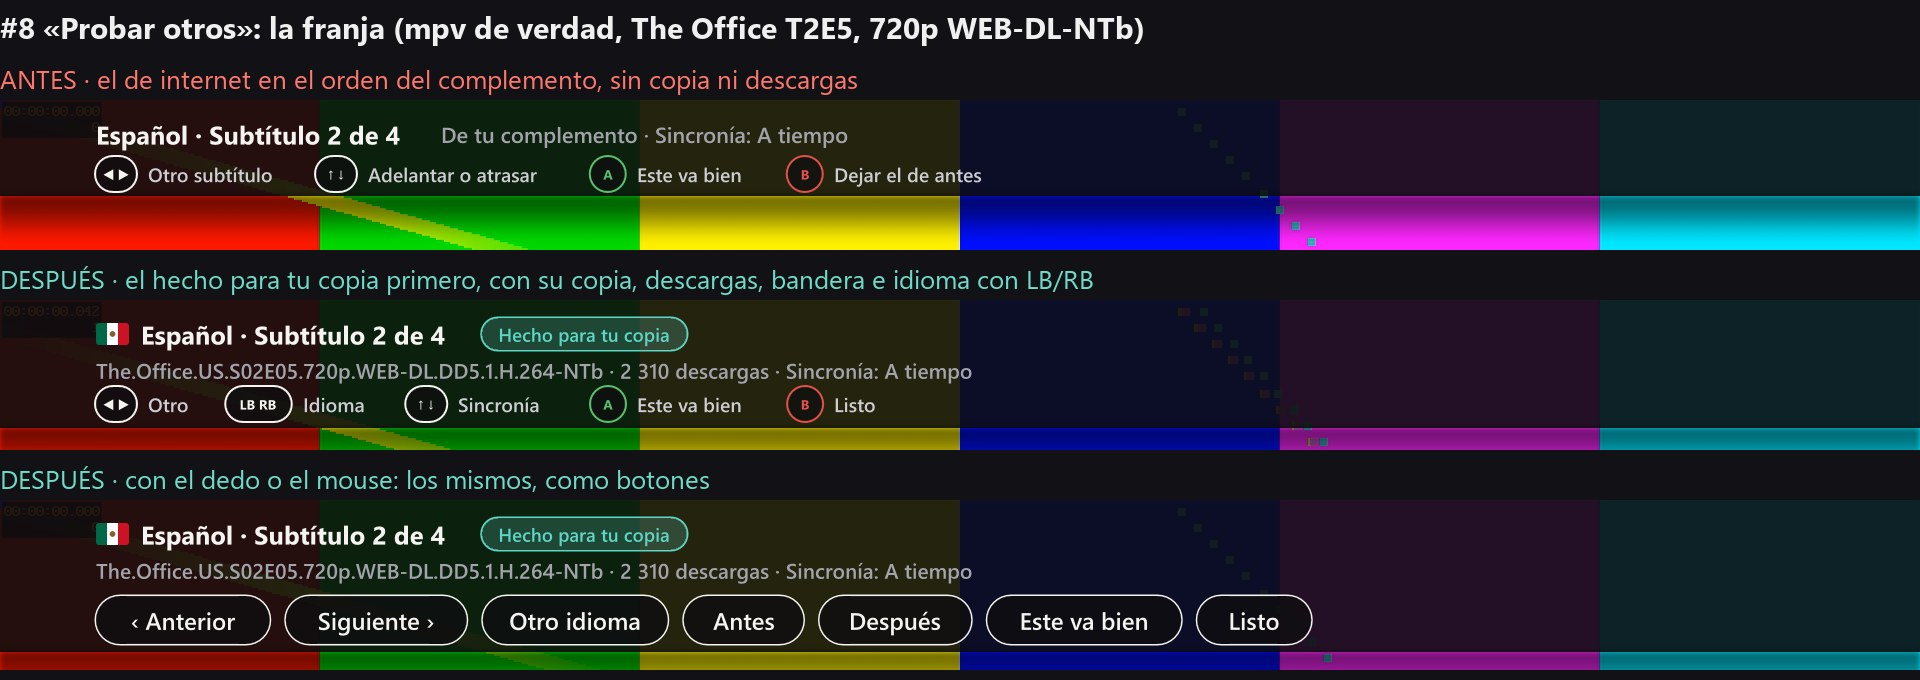
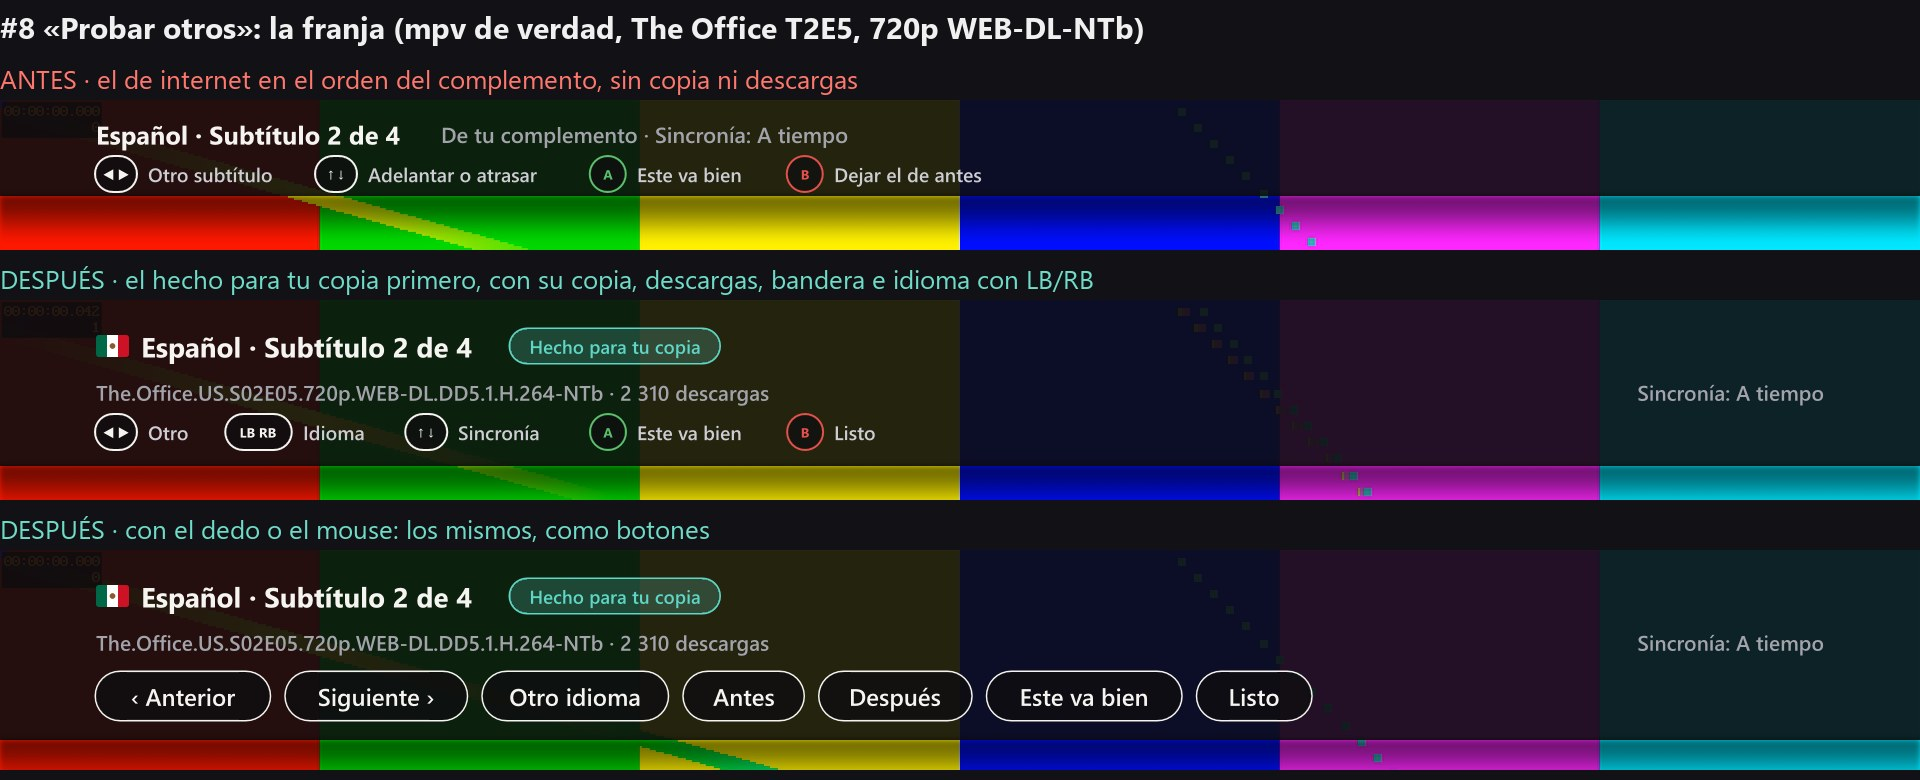
Probar subtítulos: la franja ya no se ve encimada
Tres renglones con aire (título con su bandera y «Hecho para tu copia» centrados, la copia y sus descargas, y los
botones), la franja más alta y la sincronía a la derecha, donde el nombre largo de la copia ya no la empuja.

diff --git a/orbital/player_ui.py b/orbital/player_ui.py
@@ -929,7 +929,9 @@ class SubTrial:
     edition_on: bool = False
 
 
-TRY_H = 128  # alto de la franja (con el dedo, un poco más: sus botones se tocan)
+TRY_H = 166  # alto de la franja con el mando (con el dedo, TRY_TOUCH_H: sus botones se tocan)
+TRY_TOUCH_H = 190
+TRY_ROWS = (46, 92, 132)  # los tres renglones (título, la copia, los botones): con aire entre ellos, no encimados
 
 
 def try_items(trial: SubTrial) -> list[tuple[str, str]]:
@@ -958,7 +960,8 @@ def sub_trial_ass(trial: SubTrial) -> str:
     Subtítulo 2 de 5», por qué está ahí («Hecho para tu copia»), la copia, las descargas y la sincronía; abajo, los botones
     del mando o, con el dedo y el mouse, botones tocables."""
     targets["try"] = []
-    h = TRY_H + (24 if TOUCH else 0)
+    h = TRY_TOUCH_H if TOUCH else TRY_H
+    top, info, keys = TRY_ROWS
     lines = [rrect(0, 0, W, h, 0, PANEL, "18"), gradient(h, h + 48, 120, 255, 8)]
     if trial.total <= 0:
         title = f"{trial.language} · No hay subtítulos para probar"
@@ -968,28 +971,32 @@ def sub_trial_ass(trial: SubTrial) -> str:
         title = f"{trial.language} · Subtítulo {trial.number} de {trial.total}"
     x = MARGIN
     if trial.flag:
-        lines += flags.ass(trial.flag, x, 34 - FLAG_H / 2, FLAG_H)
+        lines += flags.ass(trial.flag, x, top - FLAG_H / 2, FLAG_H)
         x += FLAG_H * flags.W / flags.H + FLAG_GAP
     status_w = min(text_width(trial.status, 22, "semi"), (W - 2 * MARGIN) * .36) if trial.status else 0
-    lines.append(text(x, 34, esc(fit(title, 26, W - MARGIN - x - status_w - 40, "bold")), 26, weight="bold", align=4))
-    x += text_width(title, 26, "bold") + 24
+    room = W - MARGIN - x - status_w - 48
+    lines.append(text(x, top, esc(fit(title, 28, room, "bold")), 28, weight="bold", align=4))
+    x += min(text_width(title, 28, "bold"), room) + 28
     if trial.badge and trial.number > 0:  # por qué está ahí, en su píldora (el turquesa de «al aire»: es lo bueno)
-        bw = text_width(trial.badge, 19, "semi") + 28
-        if x + bw < W - MARGIN - status_w - 40:
-            lines += [rrect(x, 18, bw, 32, 16, LIVE, "C8", outline=LIVE, width=1.5),
-                      text(x + bw / 2, 34, esc(trial.badge), 19, LIVE, weight="semi", align=5)]
-            x += bw + 18
+        bw, bh = text_width(trial.badge, 19, "semi") + 32, 34
+        if x + bw < W - MARGIN - status_w - 48:
+            lines += [rrect(x, top - bh / 2, bw, bh, bh / 2, LIVE, "C8", outline=LIVE, width=1.5),
+                      text(x + bw / 2, top, esc(trial.badge), 19, LIVE, weight="semi", align=5)]
     if trial.status:
-        lines.append(text(W - MARGIN, 34, esc(fit(trial.status, 22, status_w + 1, "semi")), 22, SOFT, weight="semi", align=6))
-    # Segundo renglón: de dónde viene, la copia para la que se hizo, sus descargas y la sincronía.
+        lines.append(text(W - MARGIN, top, esc(fit(trial.status, 22, status_w + 1, "semi")), 22, SOFT, weight="semi", align=6))
+    # Segundo renglón: de dónde viene, la copia para la que se hizo y sus descargas; la sincronía va a la derecha (es lo
+    # que mueves con ↑ ↓, y así el nombre largo de la copia no la empuja fuera).
     origin = "Del video" if trial.origin == "video" else ""
     parts = [p for p in (origin, trial.release, _downloads(trial.downloads)) if p] if trial.number > 0 else []
-    parts.append(f"Sincronía: {delay_label(trial.delay)}")
-    lines.append(text(MARGIN, 70, esc(fit(" · ".join(parts), 21, W - 2 * MARGIN, "semi")), 21, MUTED, weight="semi", align=4))
+    sync = f"Sincronía: {delay_label(trial.delay)}"
+    lines.append(text(W - MARGIN, info, esc(sync), 21, SOFT if abs(trial.delay) >= .05 else MUTED, weight="semi", align=6))
+    if parts:
+        room = W - 2 * MARGIN - text_width(sync, 21, "semi") - 48
+        lines.append(text(MARGIN, info, esc(fit(" · ".join(parts), 21, room, "semi")), 21, MUTED, weight="semi", align=4))
     if TOUCH:
-        lines.append(pills(try_pills(trial), 96, left=MARGIN, layer="try", h=48))
+        lines.append(pills(try_pills(trial), keys - 10, left=MARGIN, layer="try", h=48))
     else:
-        lines.append(hints(try_items(trial), 104, left=MARGIN, size=20))
+        lines.append(hints(try_items(trial), keys, left=MARGIN, size=20))
     return "\n".join(lines)
 
 
